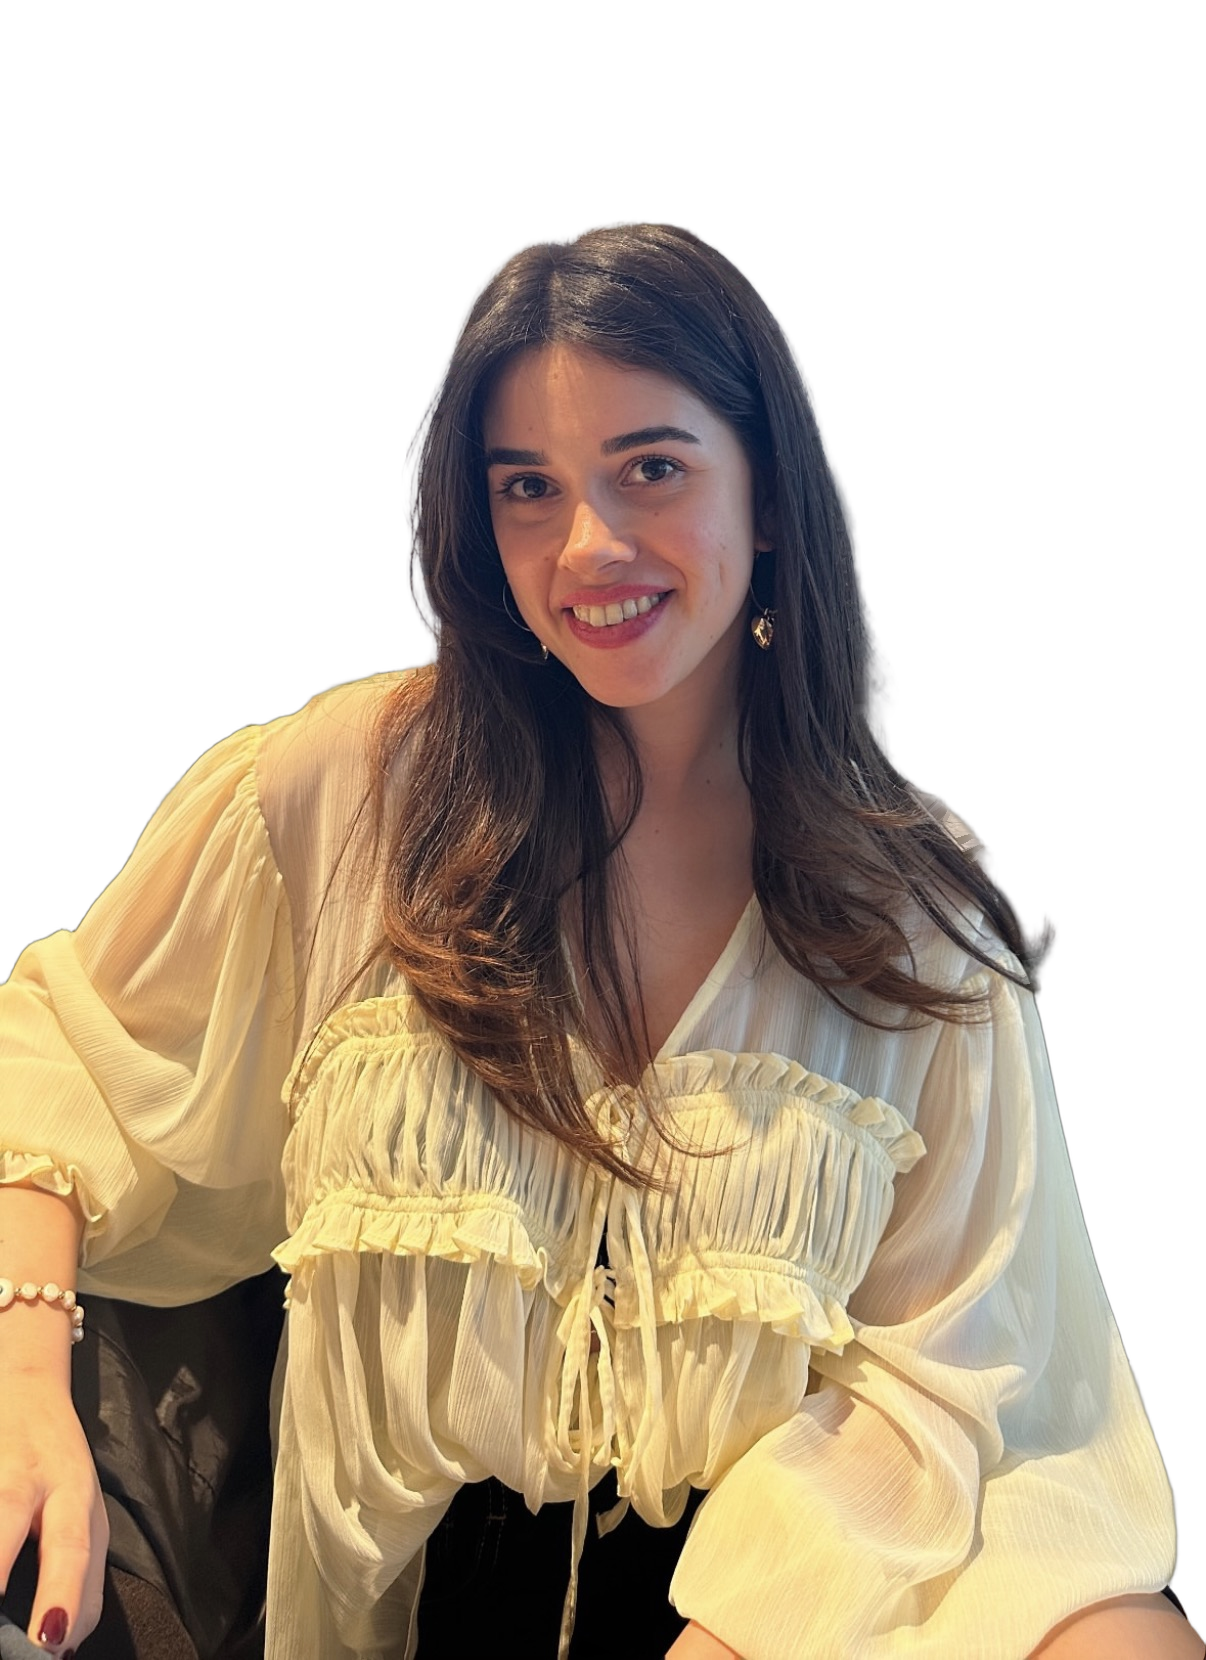
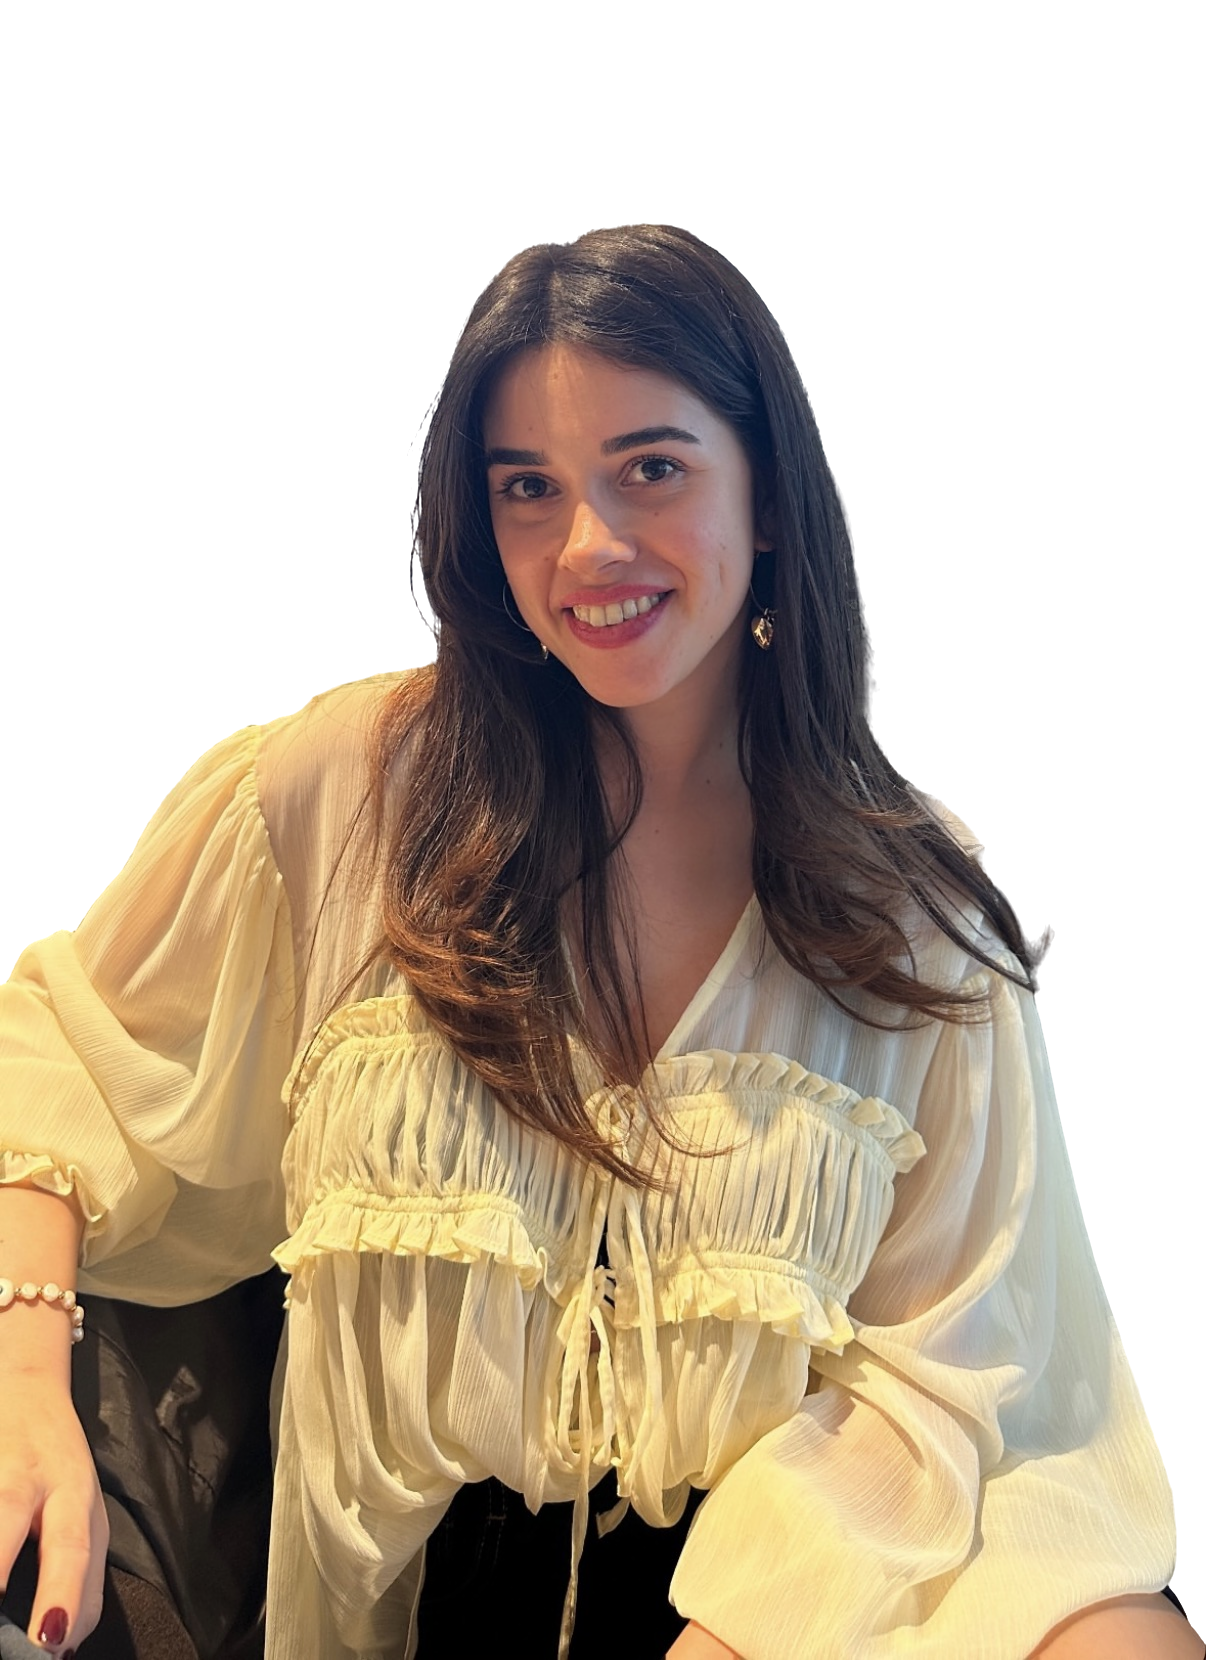
Başak postu: saç kenarı pussuz, gölge kaldırıldı
Claude-Session: https://claude.ai/code/session_01SatttGbgBLoCnk9KGLypWv

diff --git a/tasarim/kisisel/basak/basak.html b/tasarim/kisisel/basak/basak.html
@@ -51,7 +51,7 @@ body{position:relative;background:#050505}
 <svg class="gren" width="1080" height="1350"><filter id="g"><feTurbulence type="fractalNoise" baseFrequency=".85" numOctaves="2" seed="3"/><feColorMatrix type="saturate" values="0"/></filter><rect width="1080" height="1350" filter="url(#g)"/></svg>
 <div class="baslik">HAYIRLI OLSUN BAŞKANIM</div>
 <div class="cerceve"></div>
-<div class="pencere"><div class="perde" style="left:-162px;top:-255px;width:1080px;height:1350px"></div><img class="foto" src="basak-kesik.png" style="left:-35px;top:-124px;filter:brightness(0) blur(18px);opacity:.22"><img class="foto" src="basak-kesik.png"></div>
+<div class="pencere"><div class="perde" style="left:-162px;top:-255px;width:1080px;height:1350px"></div><img class="foto" src="basak-kesik.png"></div>
 <div class="bant"></div>
 <div class="isim"><b>BAŞAK TIKKIN</b><span>DİDİM İLÇE BAŞKAN YARDIMCISI</span></div>
 <div class="alt"><img class="logo2" src="logo-petrol.png"><span class="ayrac"></span><img class="imza" src="imza-petrol.png"></div>
